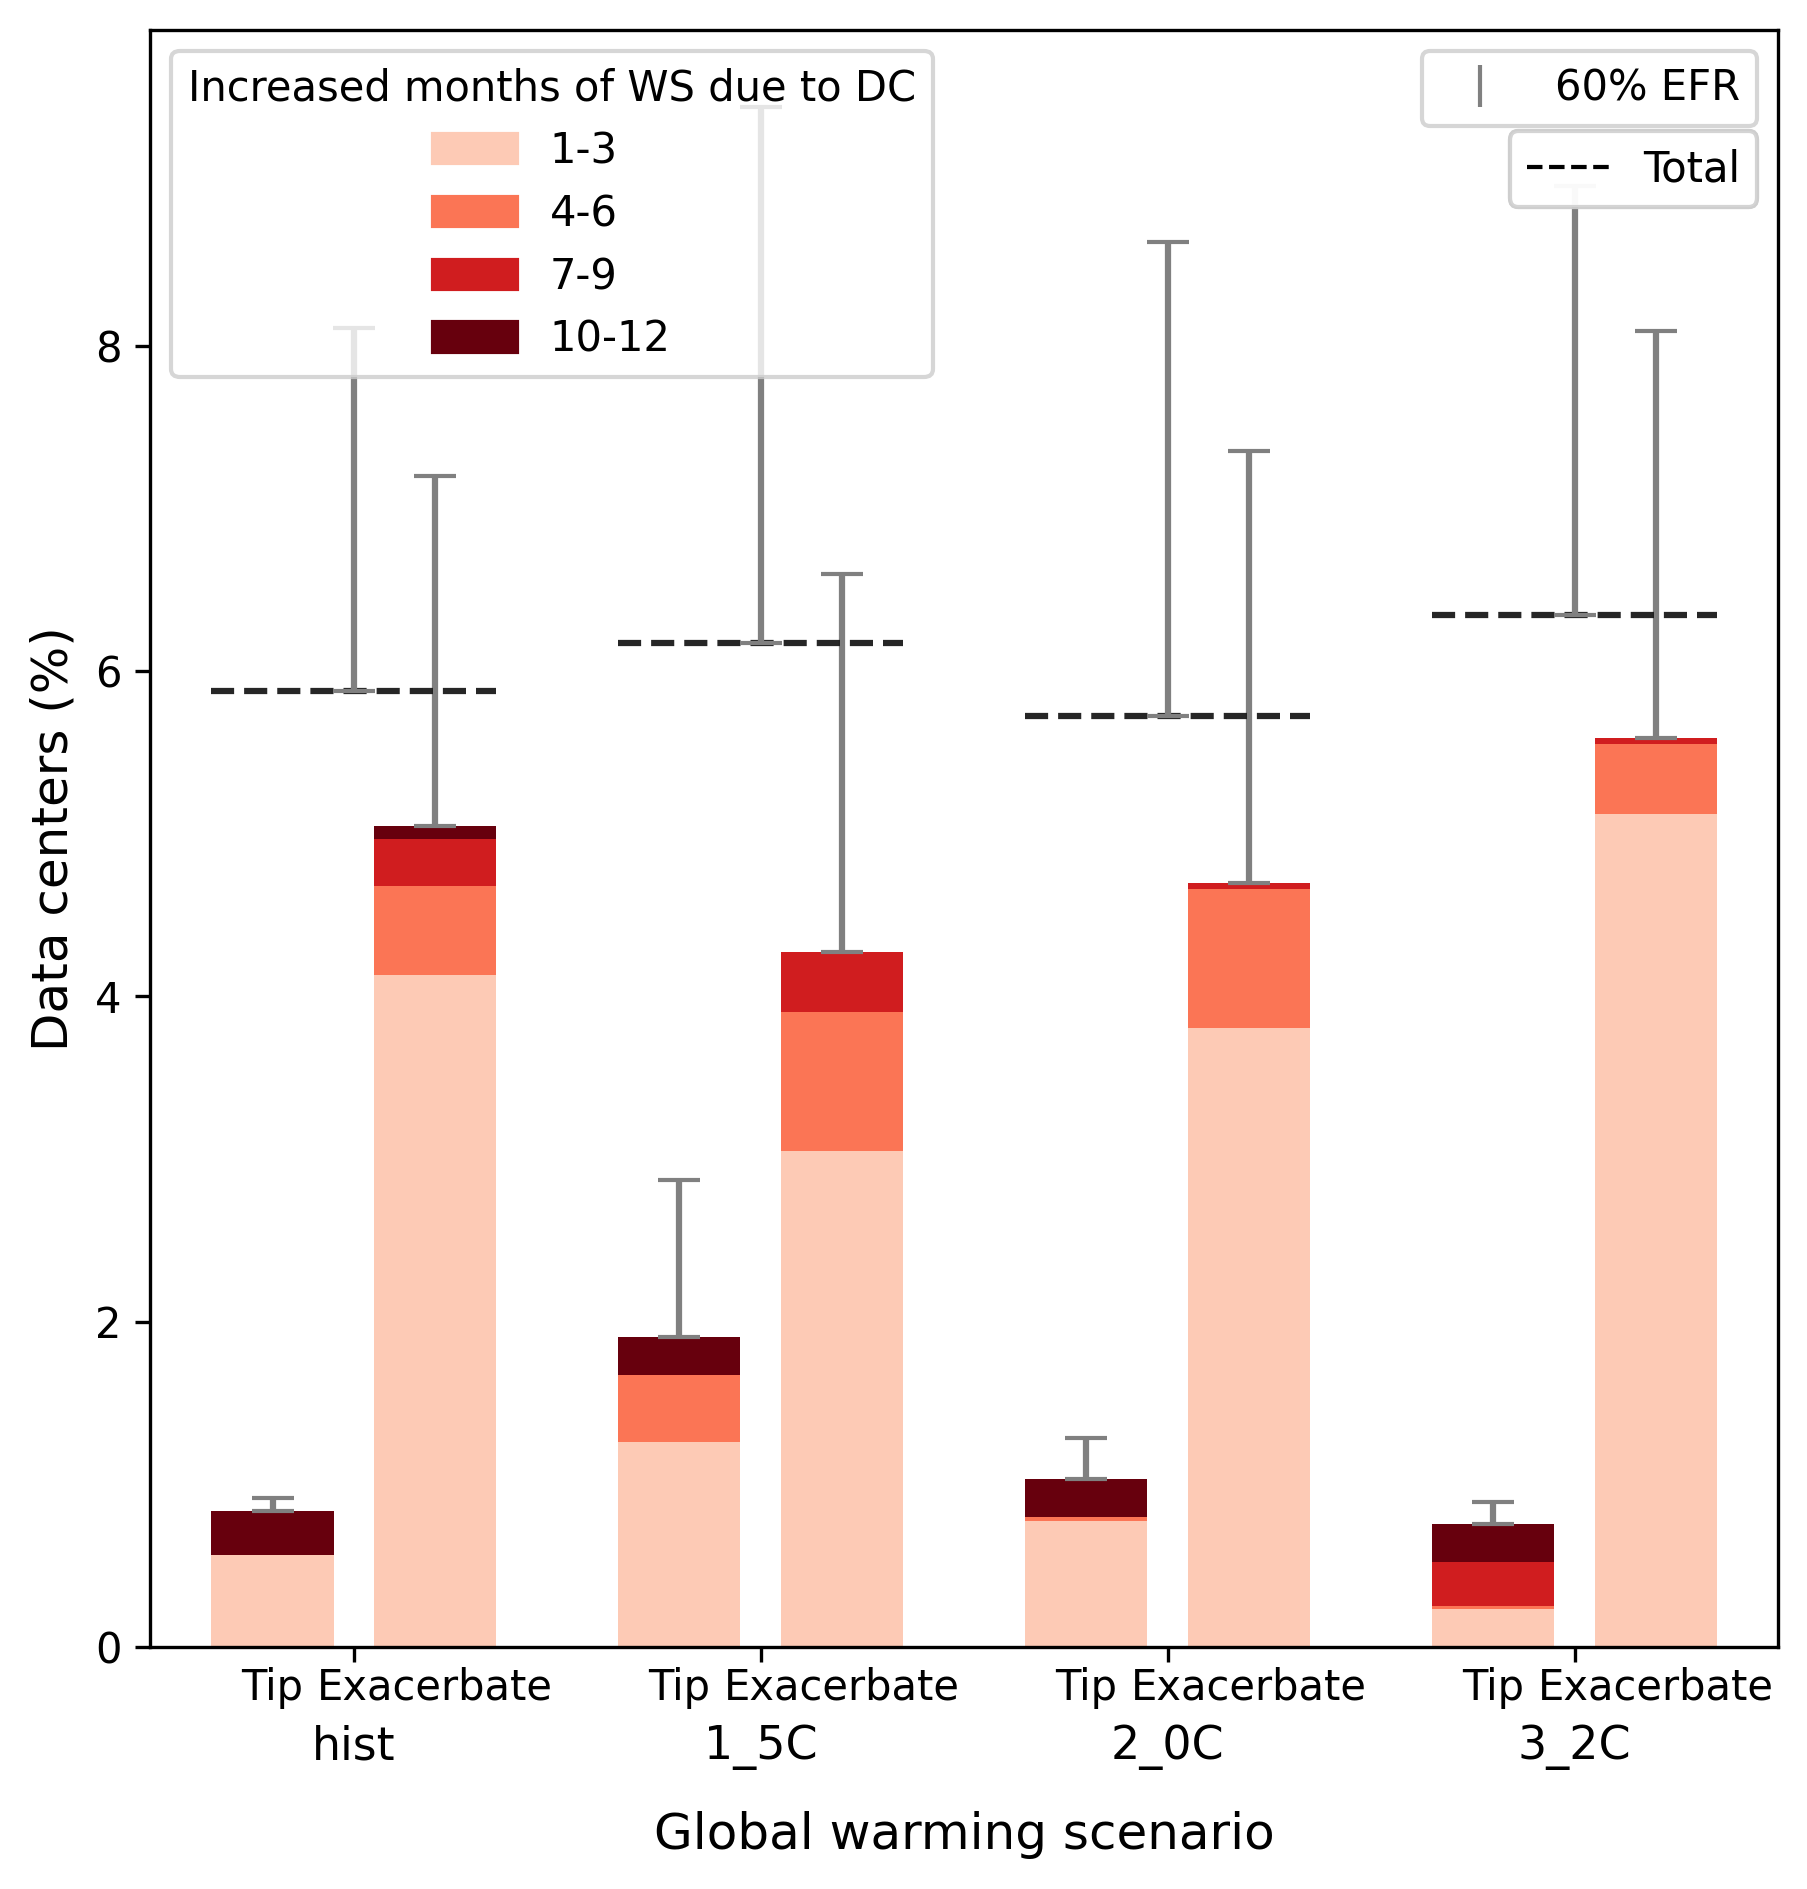
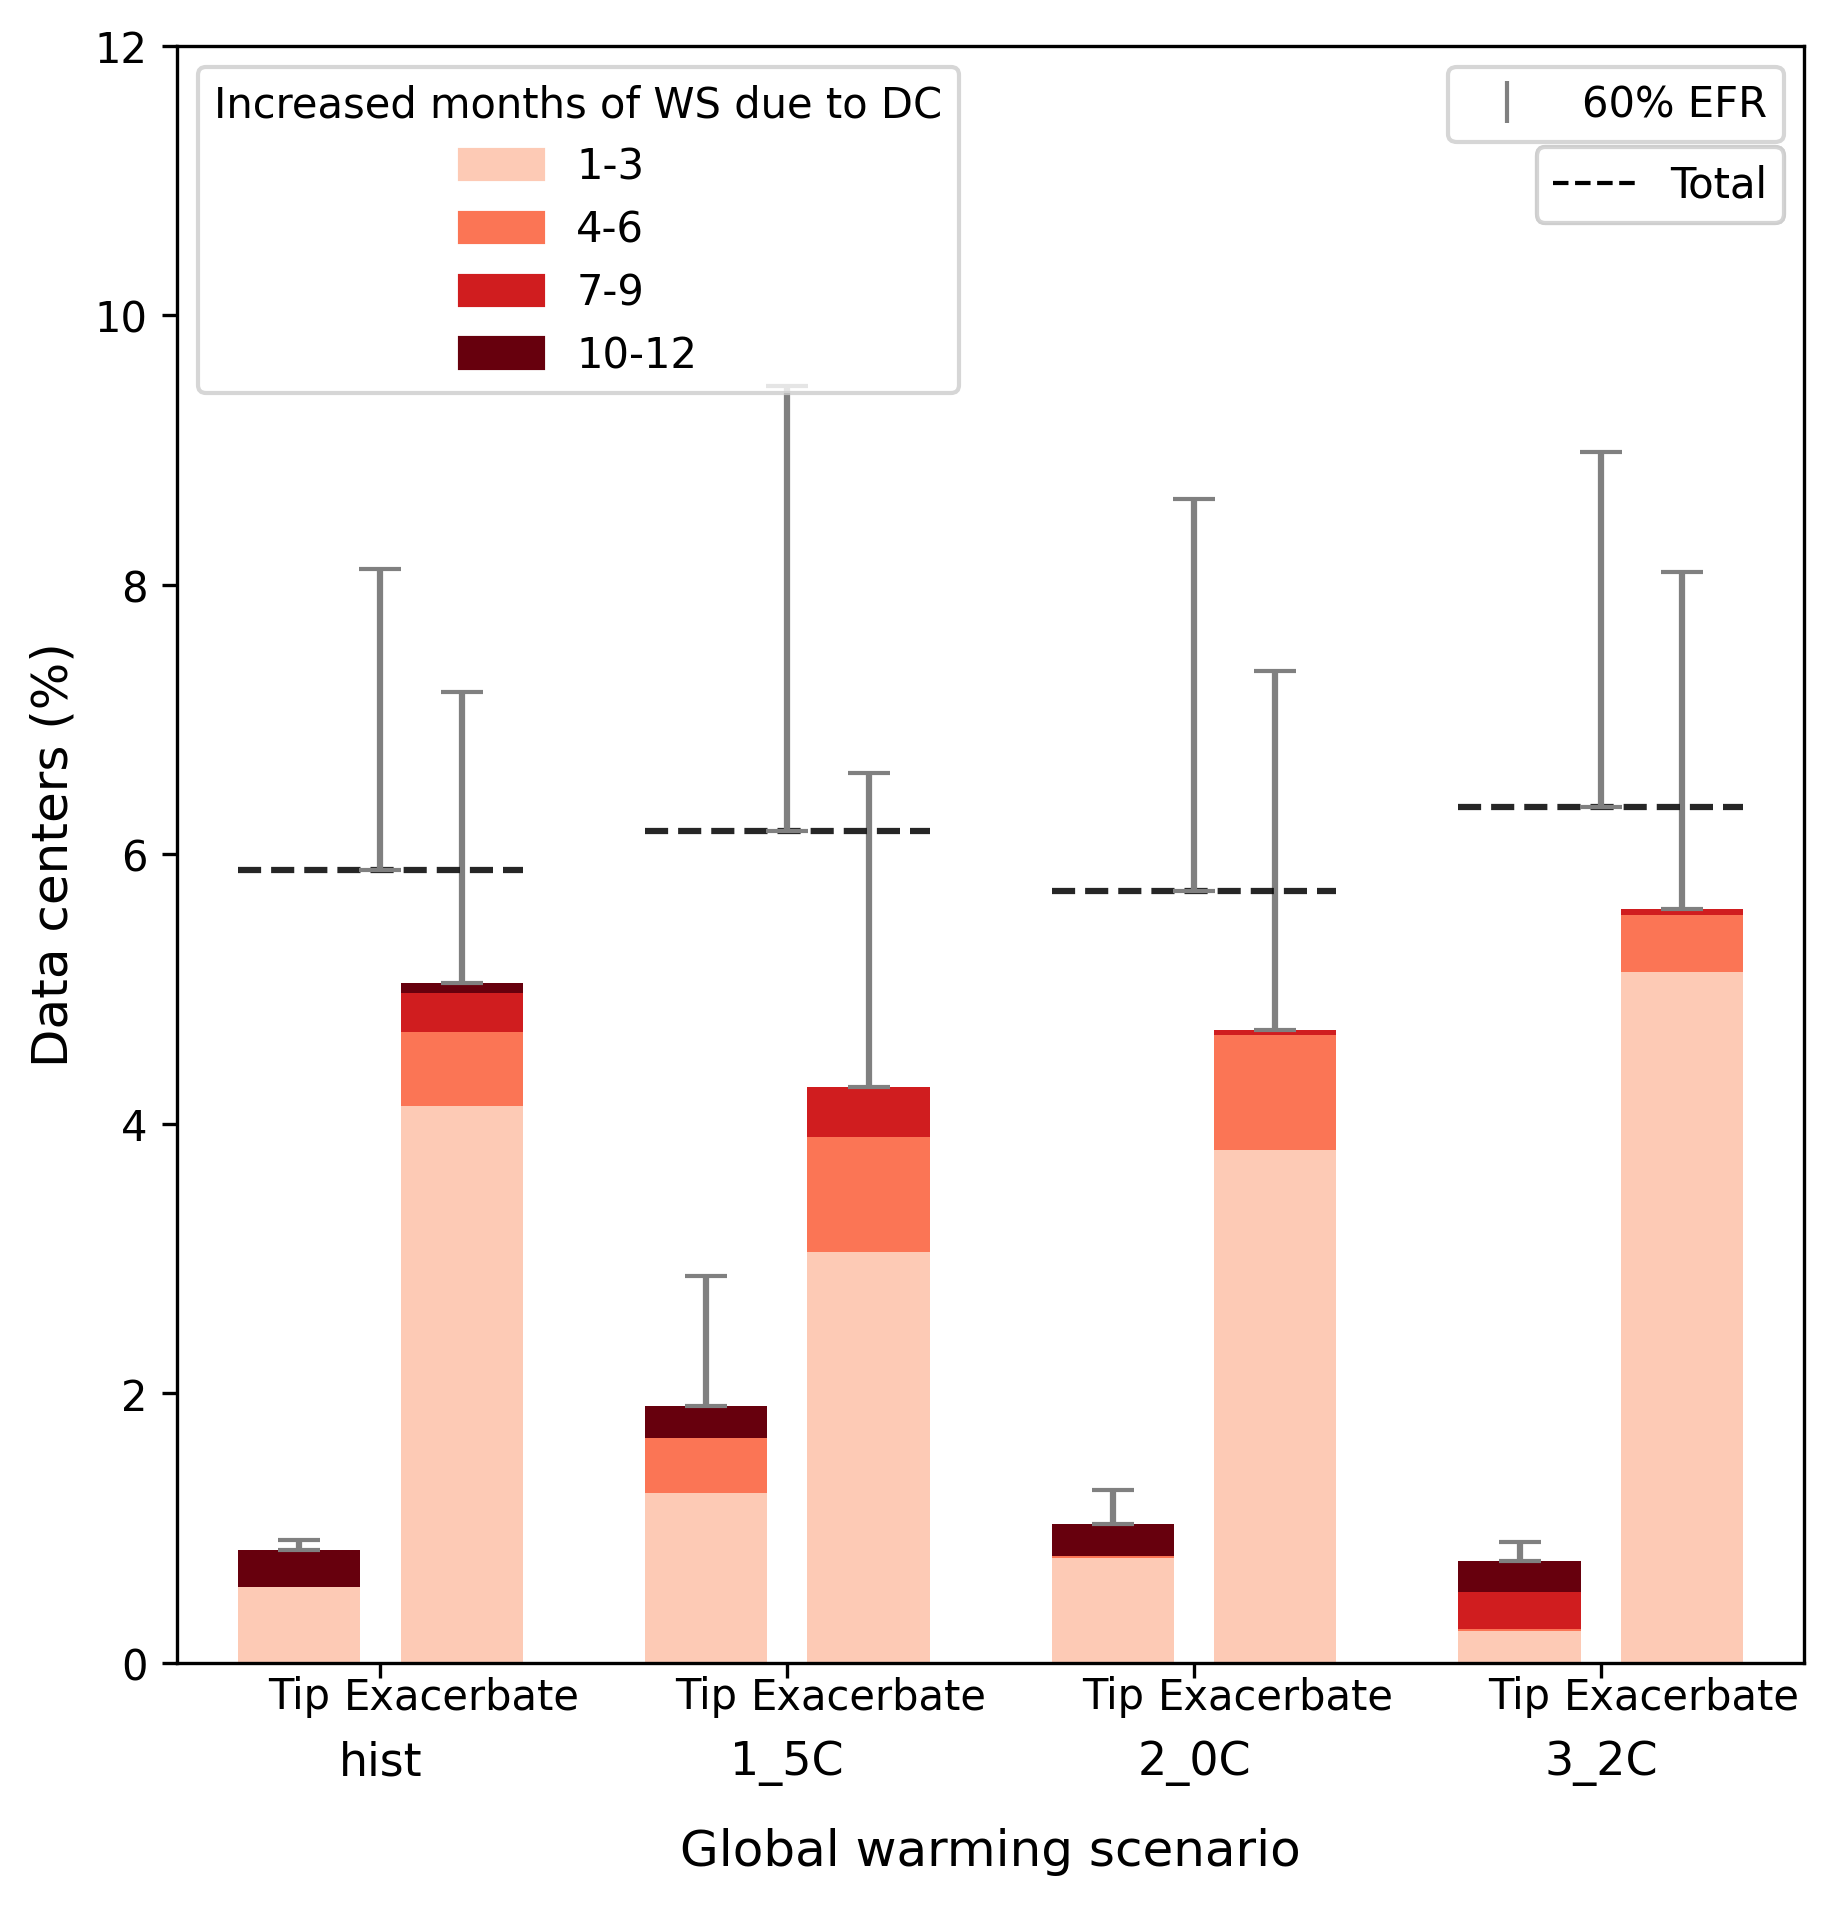
fixing y limit exacerbation/tip barchart

diff --git a/functions/figures/figures.py b/functions/figures/figures.py
@@ -561,6 +561,9 @@ def plot_exacerbate_tip_water_scarcity_barchart(
     legend3 = ax.legend(handles=[total_handle], loc="upper right", fontsize=10, bbox_to_anchor=(1, 0.95))
     ax.add_artist(legend3)
 
+    # Define y axis limits
+    ax.set_ylim(0, 13)
+
     # Save the plot
     plt.savefig(figure_dir / "tipping_exacerbating_water_scarcity_barchart.png", dpi=300, bbox_inches="tight")
 
